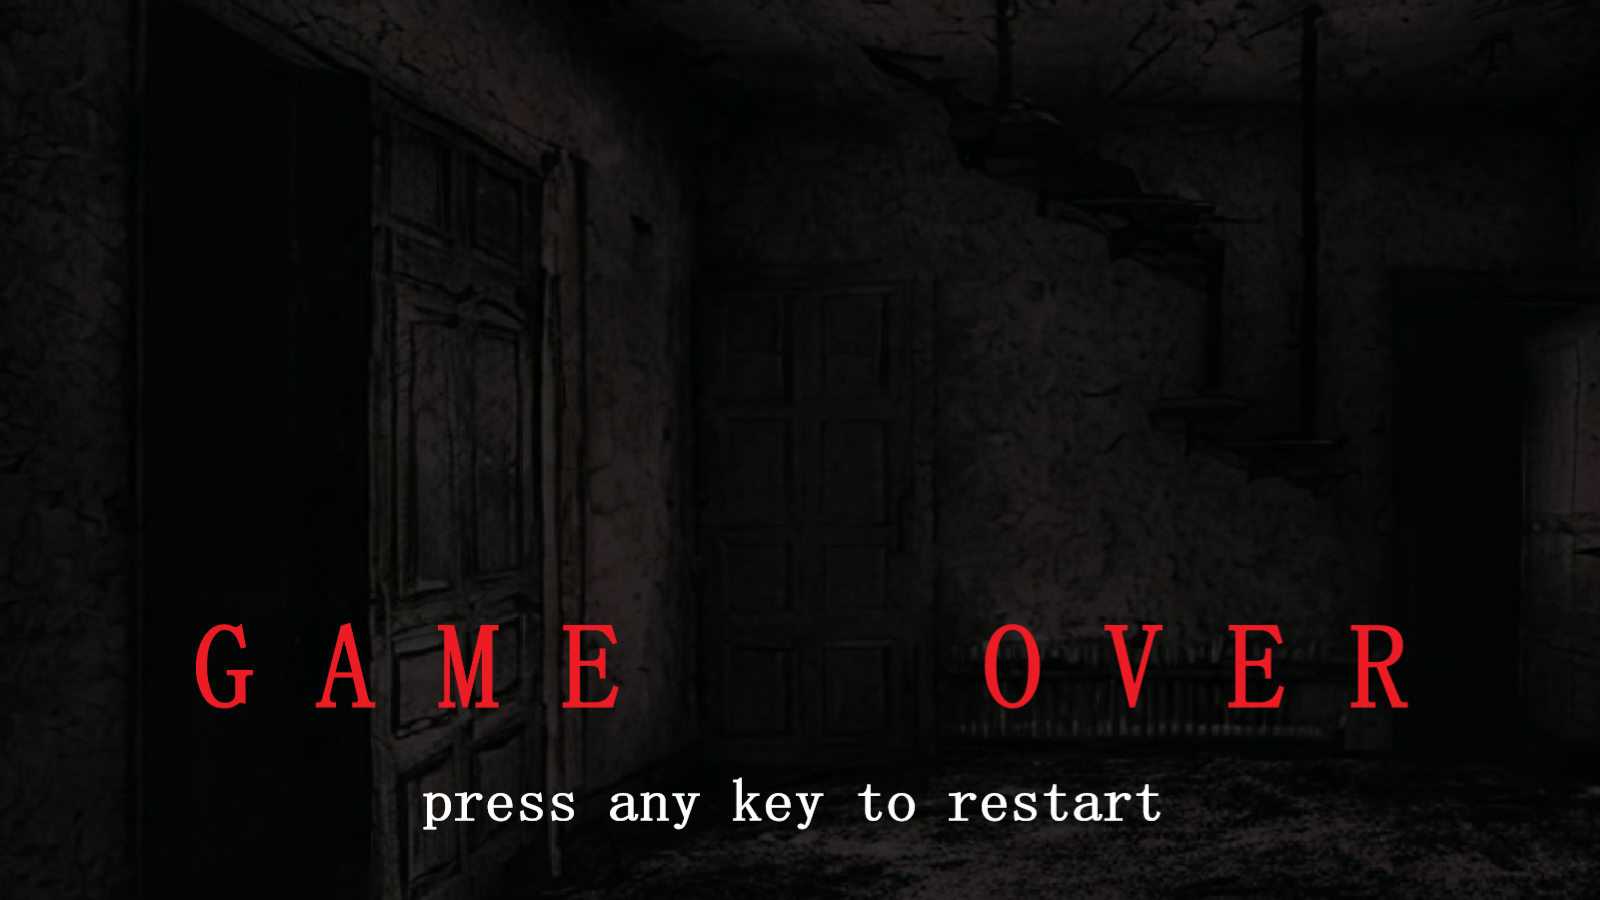
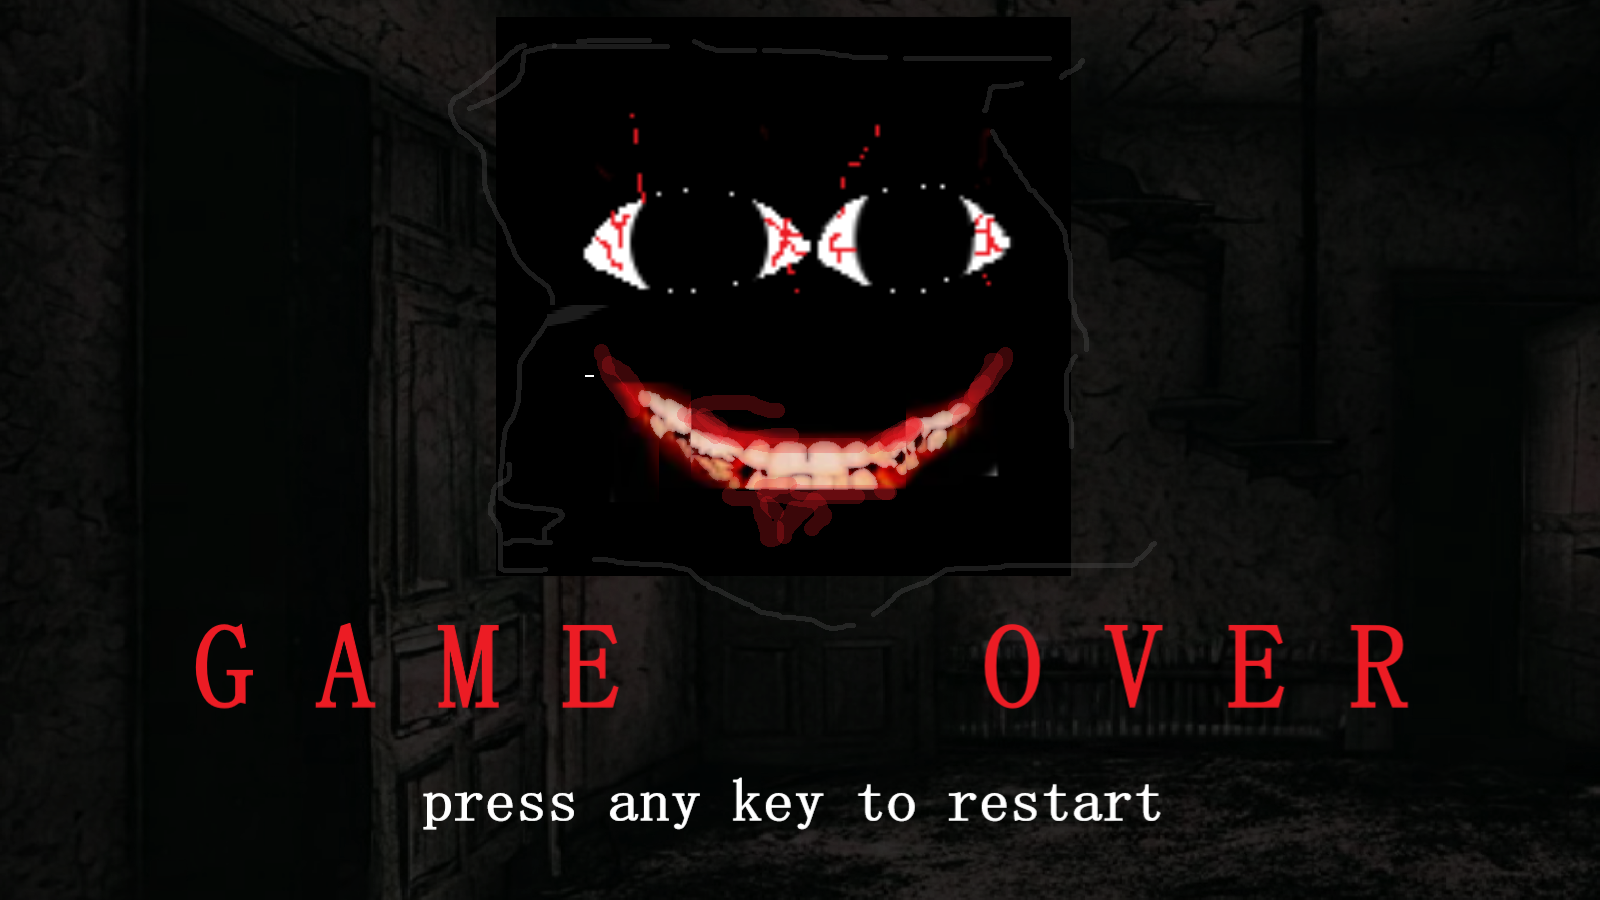
новые текстуры монстра, добавлен скример на экран проигрыша

diff --git a/end_screen.py b/end_screen.py
@@ -33,7 +33,6 @@ def end_screen(screen, size, FPS, type):
     clock = pygame.time.Clock()
     all_sprites = pygame.sprite.Group()
     backgroundes = pygame.sprite.Group()
-    buttons = pygame.sprite.Group()
 
     background_im = load_image('start_screen/bg_lose.png' if type == 'lose' else 'start_screen/bg_win.png')
     Background(background_im, all_sprites, backgroundes)
@@ -41,6 +40,10 @@ def end_screen(screen, size, FPS, type):
     pygame.mouse.set_visible(True)
 
     au.eff('screamer' if type == 'lose' else 'win').play()
+    screen.fill((0, 0, 0))
+    backgroundes.draw(screen)
+    pygame.display.flip()
+    pygame.time.delay(2000)
 
     while True:
         for event in pygame.event.get():
@@ -48,12 +51,6 @@ def end_screen(screen, size, FPS, type):
                 return
             if event.type == pygame.KEYDOWN:
                 return
-            buttons.update(event)
-        screen.fill((0, 0, 0))
-        buttons.update()
-        backgroundes.draw(screen)
-        buttons.draw(screen)
-        pygame.display.flip()
         clock.tick(FPS)
 
 

diff --git a/game.py b/game.py
@@ -878,7 +878,7 @@ def game(screen, size, FPS, contin=False):
             mainer.set_image_with_item()
             mainers += [mainer]
     # ======монстр======================================================================================================
-    monster = Monster(tools.load_image('monster.png', -1), monster_x, monster_y, monster_floor, all_sprites,
+    monster = Monster(tools.load_image('monster.png'), monster_x, monster_y, monster_floor, all_sprites,
                       monster_group, camera, FPS,
                       player, stairs, map_size)
     monster.move_triggers = {
@@ -969,7 +969,7 @@ def game(screen, size, FPS, contin=False):
         player.draw_inventar()
         clock.tick(FPS)
 
-        dark = pygame.Surface(screen.get_size())
+        dark = pygame.Surface((WIDTH, HEIGHT))
         dark.fill((0, 0, 0))
         dark_level = max(min(dark_level + random.randint(-2, 2), 200), 80)
         dark.set_alpha(dark_level)
